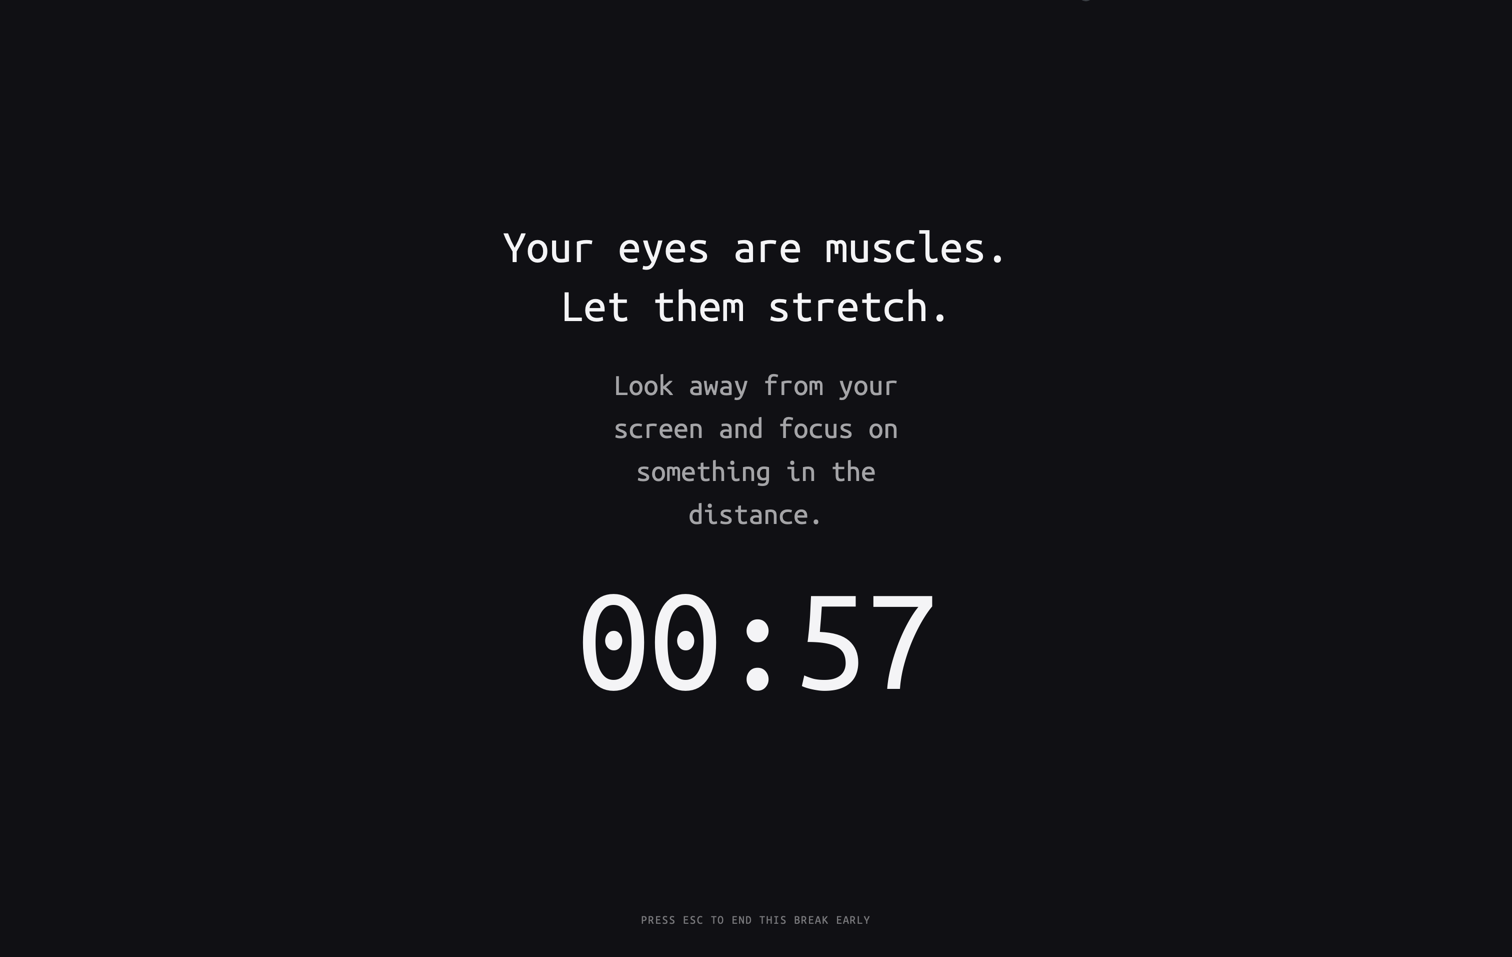
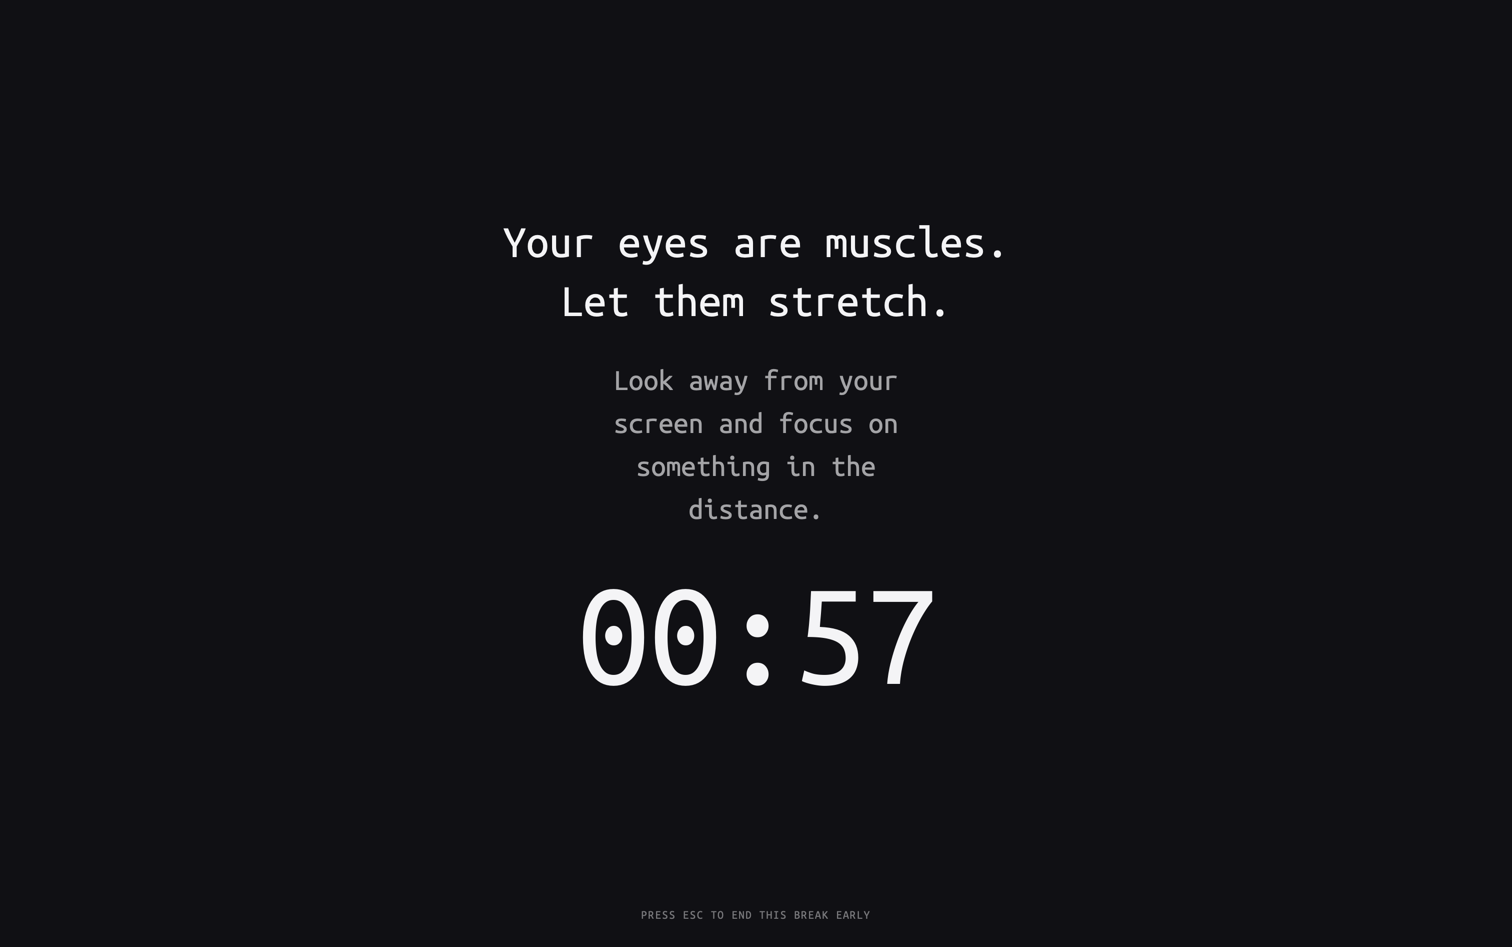
Crop the menu-bar sliver off the break screenshots
The break window covers the whole display, so these were captured full-screen
minus the menu bar — but the crop left a thin row of a menu-bar icon along the
top edge. Trimmed so the screenshots show nothing but the app.

diff --git a/site/index.html b/site/index.html
@@ -279,7 +279,7 @@
               alt="The fullscreen break screen: the words TAKE A BREAK above the instruction to look away and focus on something in the distance, with a large countdown reading 00:57."
               loading="lazy"
               width="1512"
-              height="957"
+              height="947"
             />
             <figcaption>The break, on the default dark background.</figcaption>
           </figure>
@@ -289,7 +289,7 @@
               alt="The break screen showing the quote 'Your eyes are muscles. Let them stretch.' in place of the default heading."
               loading="lazy"
               width="1512"
-              height="957"
+              height="947"
             />
             <figcaption>With one of your own lines instead.</figcaption>
           </figure>
